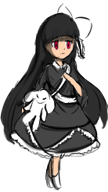
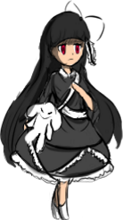
added new character texture for idle

diff --git a/core/src/com/mygdx/game/MyGdxGame.java b/core/src/com/mygdx/game/MyGdxGame.java
@@ -91,7 +91,7 @@ public class MyGdxGame extends ApplicationAdapter {
     	
         batch = new SpriteBatch();    
         font = new BitmapFont();
-        loli = new Character(0,750, world, 64*RENDER_TO_WORLD, 128*RENDER_TO_WORLD);
+        loli = new Character(0,750, world, 123*RENDER_TO_WORLD, 192*RENDER_TO_WORLD);
         //loli2 = new Character(600,600, world);
         
         backImage = new Texture(Gdx.files.internal("../core/assets/generalconcept.png"));

diff --git a/core/src/com/mygdx/game/Character.java b/core/src/com/mygdx/game/Character.java
@@ -28,7 +28,7 @@ public class Character {
 		this.body = world.createBody(bodyDef);
 		body.setFixedRotation(true);
 		PolygonShape shape = new PolygonShape();
-		shape.setAsBox(this.width, this.height);
+		shape.setAsBox(this.width/2, this.height);
 		
 		FixtureDef fixt = new FixtureDef();
 		fixt.shape = shape;
